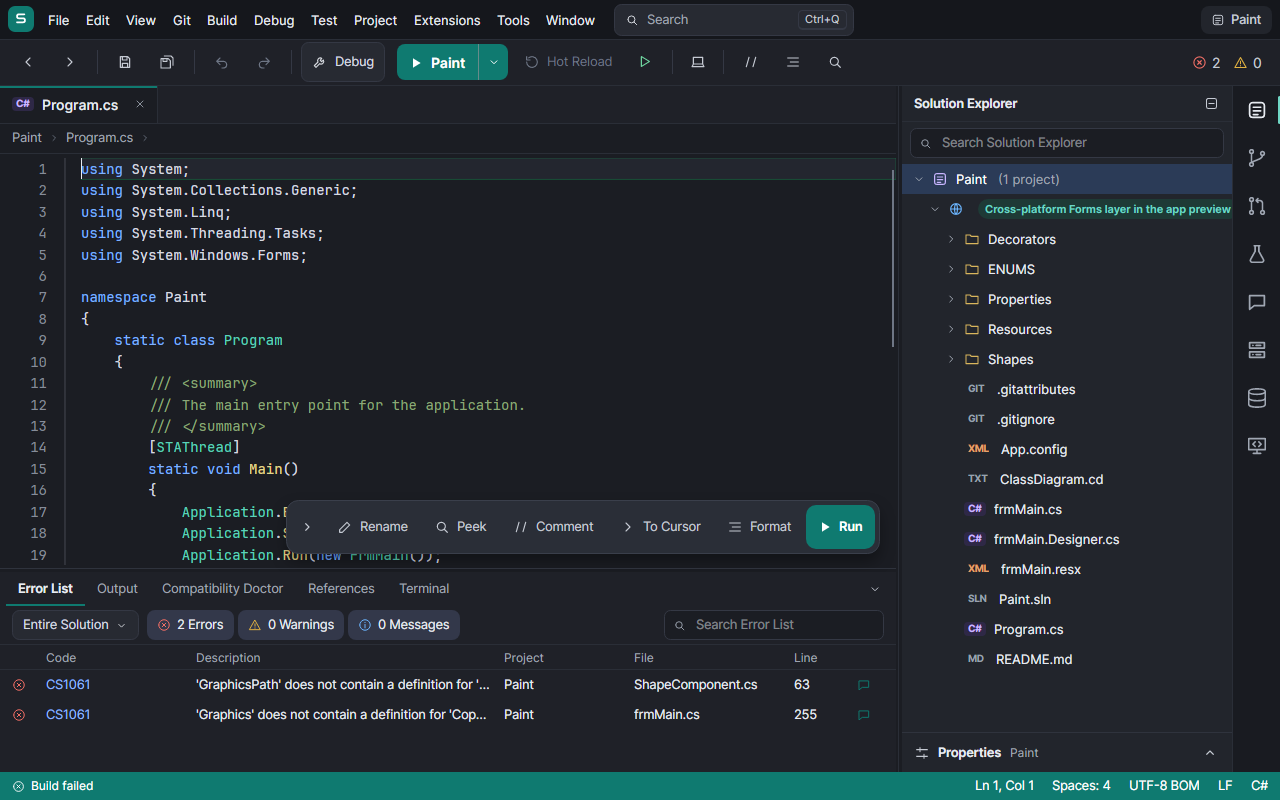
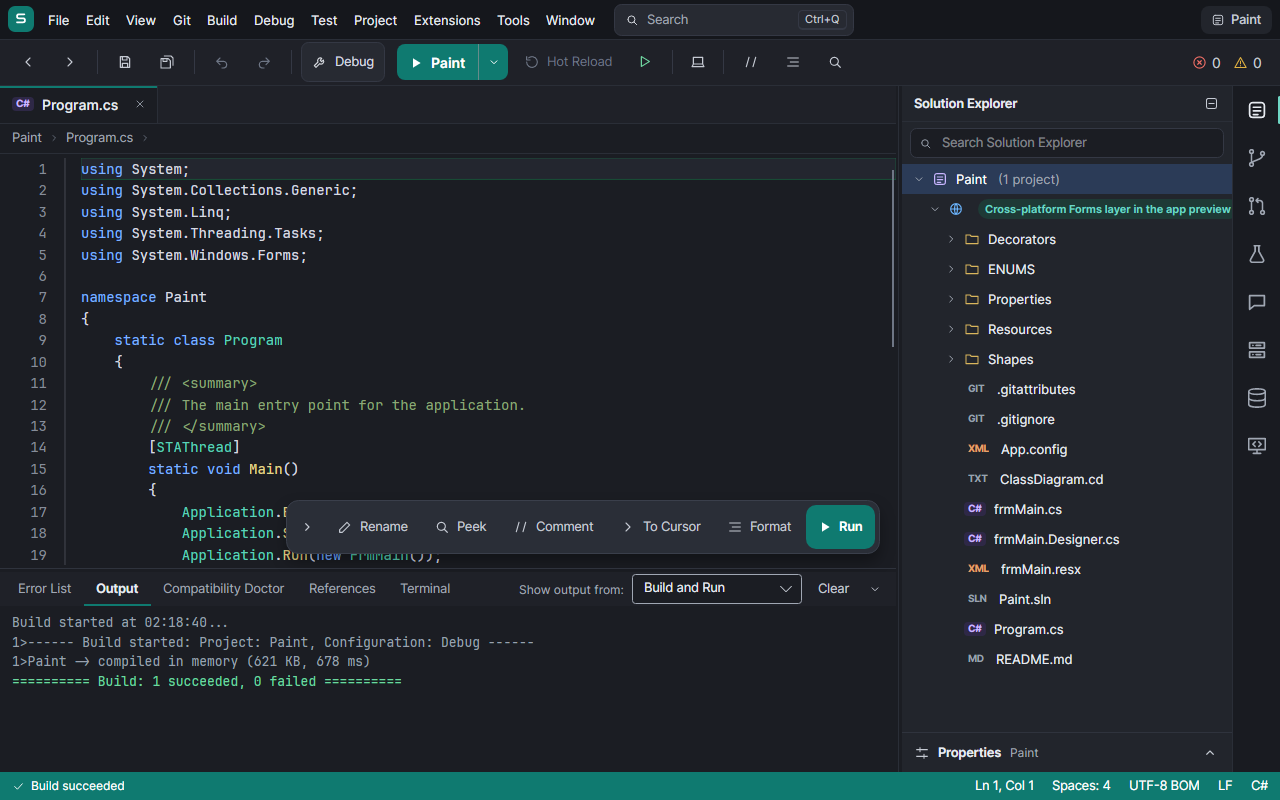
branches/scratch-forms-real/quick: success @ 560cbd58

diff --git a/branches/scratch-forms-real/quick/summary.md b/branches/scratch-forms-real/quick/summary.md
@@ -1,5 +1,6 @@
 | Repository | Errors | Baseline | Warnings | Build |
 | --- | --- | --- | --- | --- |
-| SimplePaint | 2 | 0 | 0 | 1 s |
-| DrawPaint | 0 | 0 | 8 | 5 s |
+| WpfSimpleCalculator | 0 | 0 | 1 | 4 s |
+| SimplePaint | 0 | 0 | 0 | 1 s |
+| SimpleDrawingApp | 1 | 0 | 0 | 0 s |
 | WinFormsSnakeGame | 0 | 0 | 0 | 0 s |
